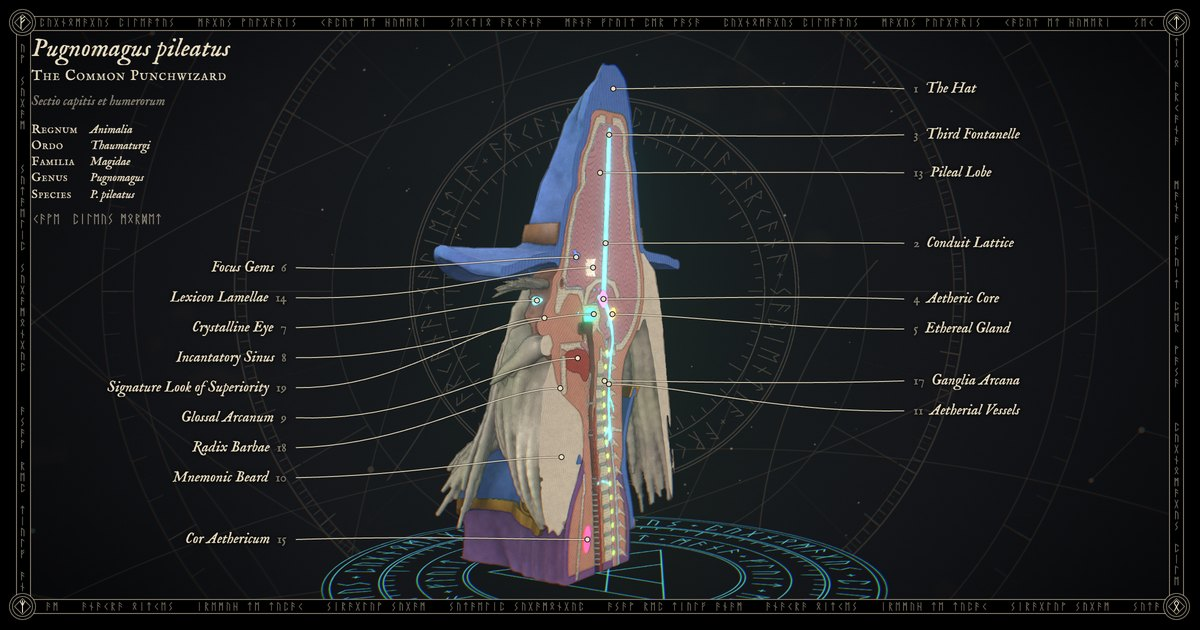
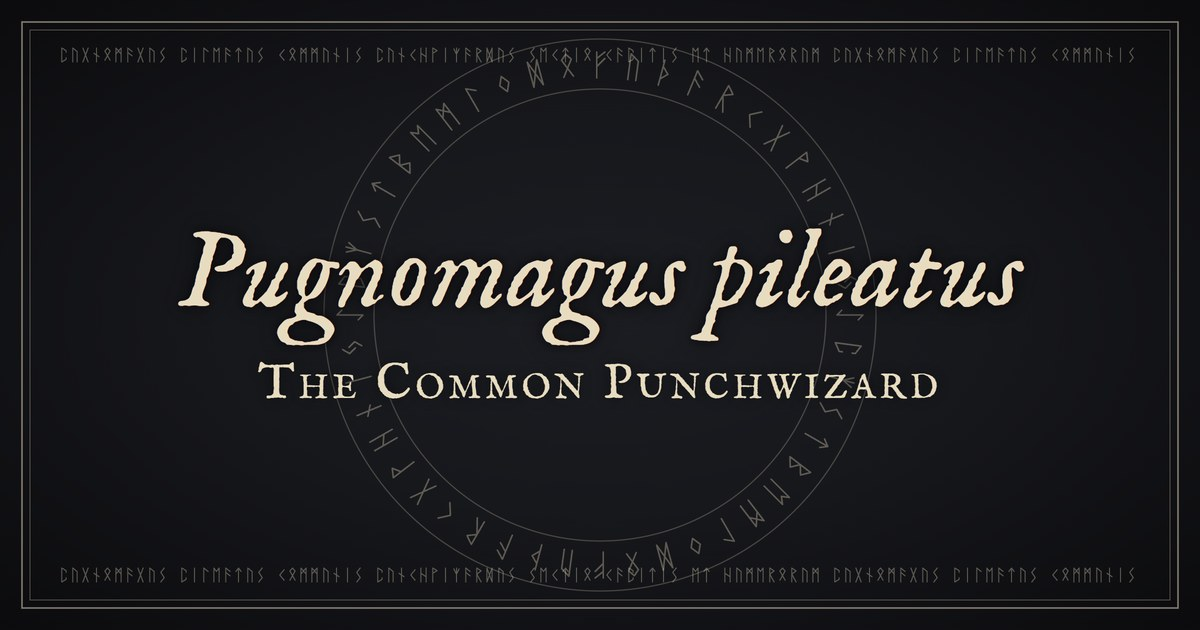
style(meta): simpler preview image, a title card
Pugnomagus pileatus and The Common Punchwizard in IM Fell English, large, on
dark paper with a faint ring of Futhark runes, so it reads in small link
previews.

diff --git a/index.html b/index.html
@@ -16,7 +16,7 @@
     <link rel="manifest" href="/site.webmanifest" />
     <link rel="canonical" href="https://punchwizard.com/" />
 
-    <!-- Link previews (Open Graph, X/Twitter). Image: a 1200 × 630 capture of the plate. -->
+    <!-- Link previews (Open Graph, X/Twitter). Image: a 1200 × 630 title card. -->
     <meta property="og:type" content="website" />
     <meta property="og:site_name" content="Punchwizard" />
     <meta property="og:url" content="https://punchwizard.com/" />
@@ -31,7 +31,7 @@
     <meta property="og:image:height" content="630" />
     <meta
       property="og:image:alt"
-      content="A wizard's head and shoulders cut in half like an anatomy specimen, with labelled arcane organs, on dark paper inside a rune border."
+      content="Pugnomagus pileatus, the Common Punchwizard, lettered in an old italic on dark paper inside a ring of Elder Futhark runes."
     />
     <meta name="twitter:card" content="summary_large_image" />
     <meta name="twitter:title" content="Pugnomagus pileatus, the Common Punchwizard" />
@@ -42,7 +42,7 @@
     <meta name="twitter:image" content="https://punchwizard.com/og-image.jpg" />
     <meta
       name="twitter:image:alt"
-      content="A wizard's head and shoulders cut in half like an anatomy specimen, with labelled arcane organs, on dark paper inside a rune border."
+      content="Pugnomagus pileatus, the Common Punchwizard, lettered in an old italic on dark paper inside a ring of Elder Futhark runes."
     />
   </head>
   <body>

diff --git a/docs/design.md b/docs/design.md
@@ -13,7 +13,7 @@ How the site works. The rationale and roadmap are in [PLAN.md](PLAN.md); this fi
 
 `<Fallback>` shows the same border and title on CSS paper (`ui/PaperBackdrop`), with a still of the specimen in its resting cut (`public/fallback/plate.webp`, JPEG for older browsers; captured from the live plate with the overlay hidden, edges feathered by a CSS mask) and a note that the living plate needs WebGL 2. `<noscript>` in `index.html` shows the same still. It's used when WebGL 2 is missing and, through `ui/ErrorBoundary`, when the plate fails to render (for example, the specimen can't be fetched).
 
-`index.html` carries the title, description, canonical URL and link-preview tags (Open Graph and X/Twitter `summary_large_image`). The preview image, `public/og-image.jpg`, is a 1200 × 630 capture of the plate in its resting cut (taken at 2× and downscaled, with the bottom controls hidden); retake it if the plate's look changes. Preview tags need absolute URLs, so these name the live domain. Icons are in `public/` too: `favicon.svg` (the hat on dark paper, outlined in chalk) is the source; `favicon.ico` (16/32/48), `icon-192.png` and `icon-512.png` are renders of it, and `apple-touch-icon.png` (180) and `icon-maskable-512.png` are full-bleed versions with the hat scaled into the platforms' safe zone. `site.webmanifest` lists them.
+`index.html` carries the title, description, canonical URL and link-preview tags (Open Graph and X/Twitter `summary_large_image`). The preview image, `public/og-image.jpg`, is a 1200 × 630 title card: _Pugnomagus pileatus_ (IM Fell English italic, 112 px) over _The Common Punchwizard_ (small caps, 50 px) on dark paper, behind them a faint ring of the Futhark runes (`ornament/futhark.ts`) and rune bands inside a double rule. It was drawn as a throwaway page in the dev server (so it could use the project font and rune paths), captured at 2× and downscaled. Preview tags need absolute URLs, so these name the live domain. Icons are in `public/` too: `favicon.svg` (the hat on dark paper, outlined in chalk) is the source; `favicon.ico` (16/32/48), `icon-192.png` and `icon-512.png` are renders of it, and `apple-touch-icon.png` (180) and `icon-maskable-512.png` are full-bleed versions with the hat scaled into the platforms' safe zone. `site.webmanifest` lists them.
 
 In dev, `scene/DevHandle` exposes the R3F state getter as `window.__plate` for inspection.
 

diff --git a/docs/status.md b/docs/status.md
@@ -29,7 +29,7 @@ Milestones are in [PLAN.md](PLAN.md#8-milestones); the realism revision after th
 - **Views:** Tabula (default: Deyrolle washes on ink-black paper, dark outlines and section lines) and Resonantia (MRI greys, hair and clothing black), switched at the bottom right or with `V`. Bloom (each magical organ glows in its own colour, in both views, and through see-through layers) and Lens (aberration, light grain, vignette) are part of both. See design.md § Views.
 - **Performance:** about 3 ms a frame on the GPU at 2500 × 1330 (no MSAA; SMAA alone), cut faces drawn only for parts the plane crosses, label overlay writes only what changed, pixel ratio adapts on weak devices; the specimen is meshopt-compressed (2.0 MB gzipped) and preloaded from the HTML.
 - **Preloader:** a ring of Futhark runes that ink in as the specimen loads, captioned _Praeparatur specimen_, fading out on the first frame.
-- **Metadata:** title, description, canonical URL, Open Graph and X/Twitter cards with a 1200 × 630 preview image of the plate.
+- **Metadata:** title, description, canonical URL, Open Graph and X/Twitter cards with a 1200 × 630 title-card preview image.
 - **Icons:** SVG favicon (the hat on dark paper) with ICO, touch and manifest (incl. maskable) renders, and a web manifest.
 - **Fallback:** without WebGL 2 (or if the plate fails), the border and title with a still of the specimen and a short note; `<noscript>` shows the same still.
 - **Touch:** no browser gestures on the plate (pinch zooms the camera, not the page), larger tap targets on touch screens, bottom controls stacked on phones, tooltips kept on screen (they open toward the middle, and upward low down).
